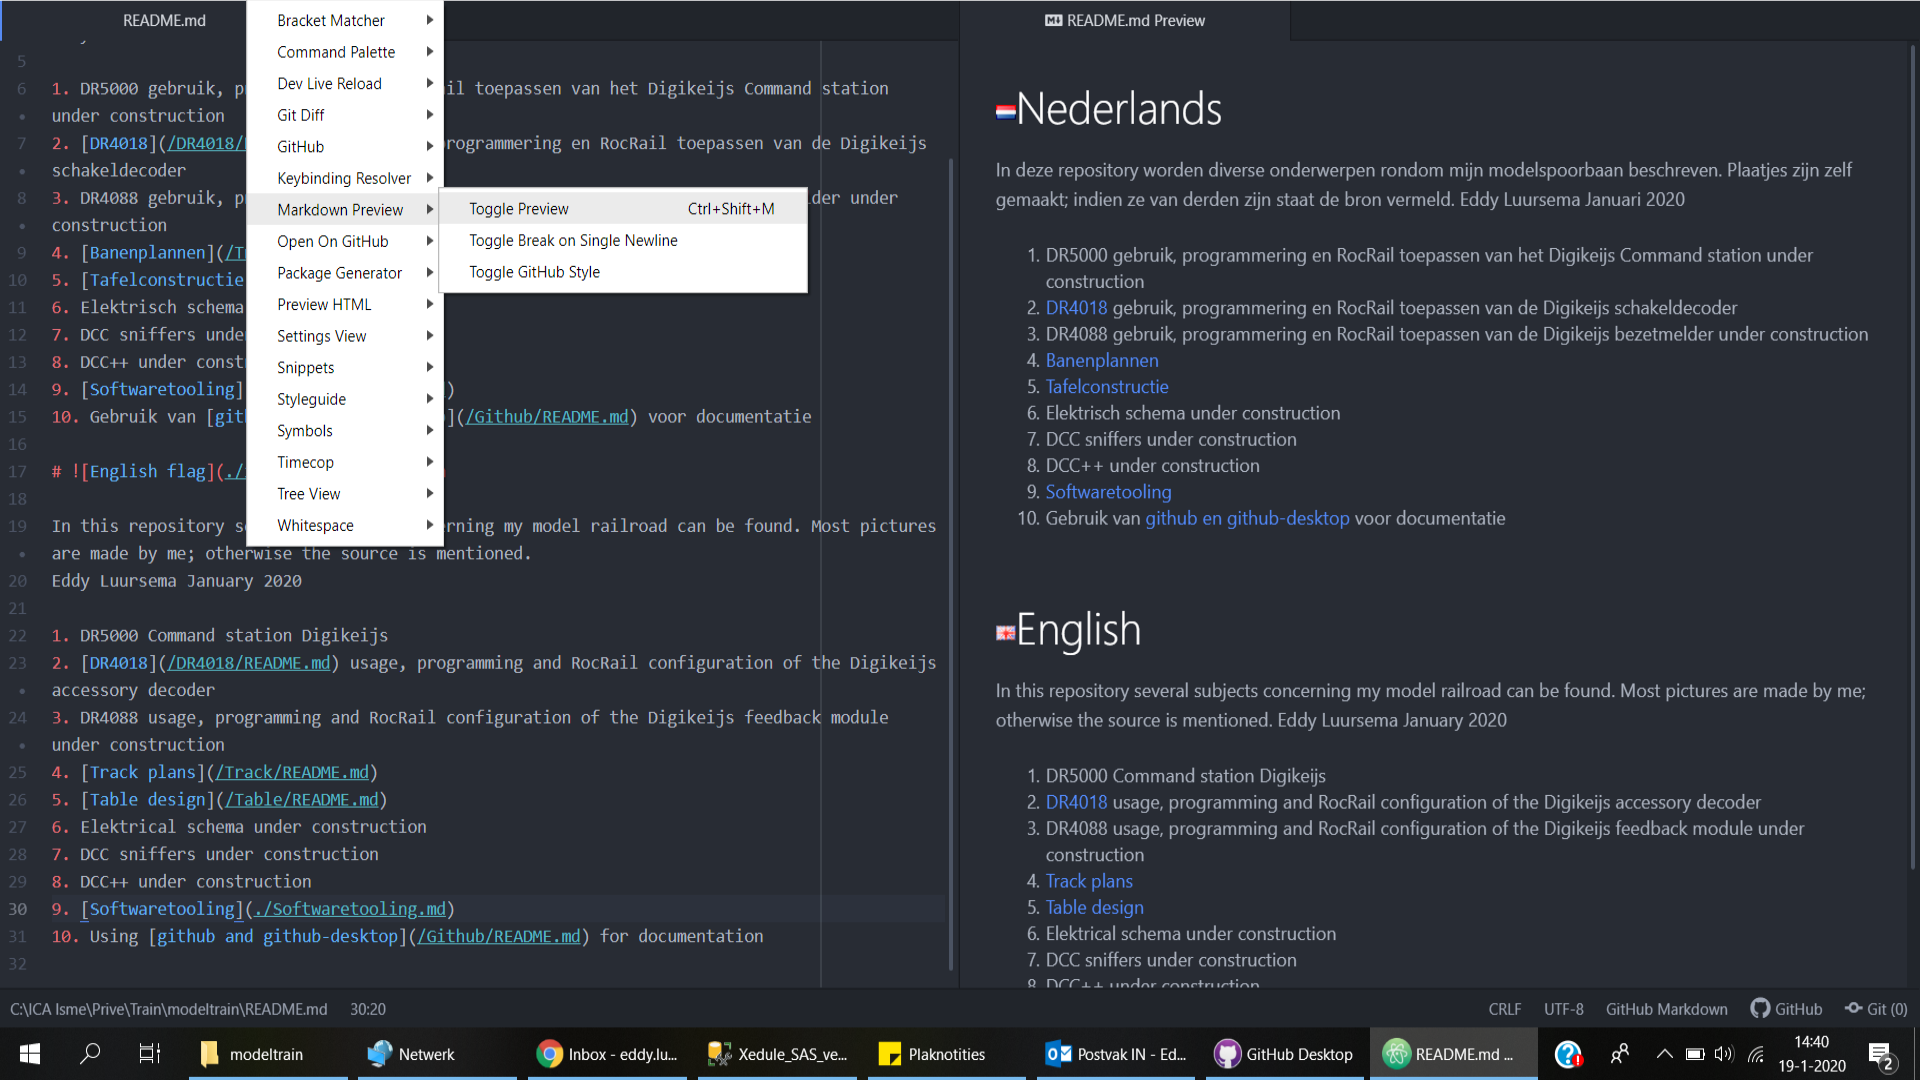
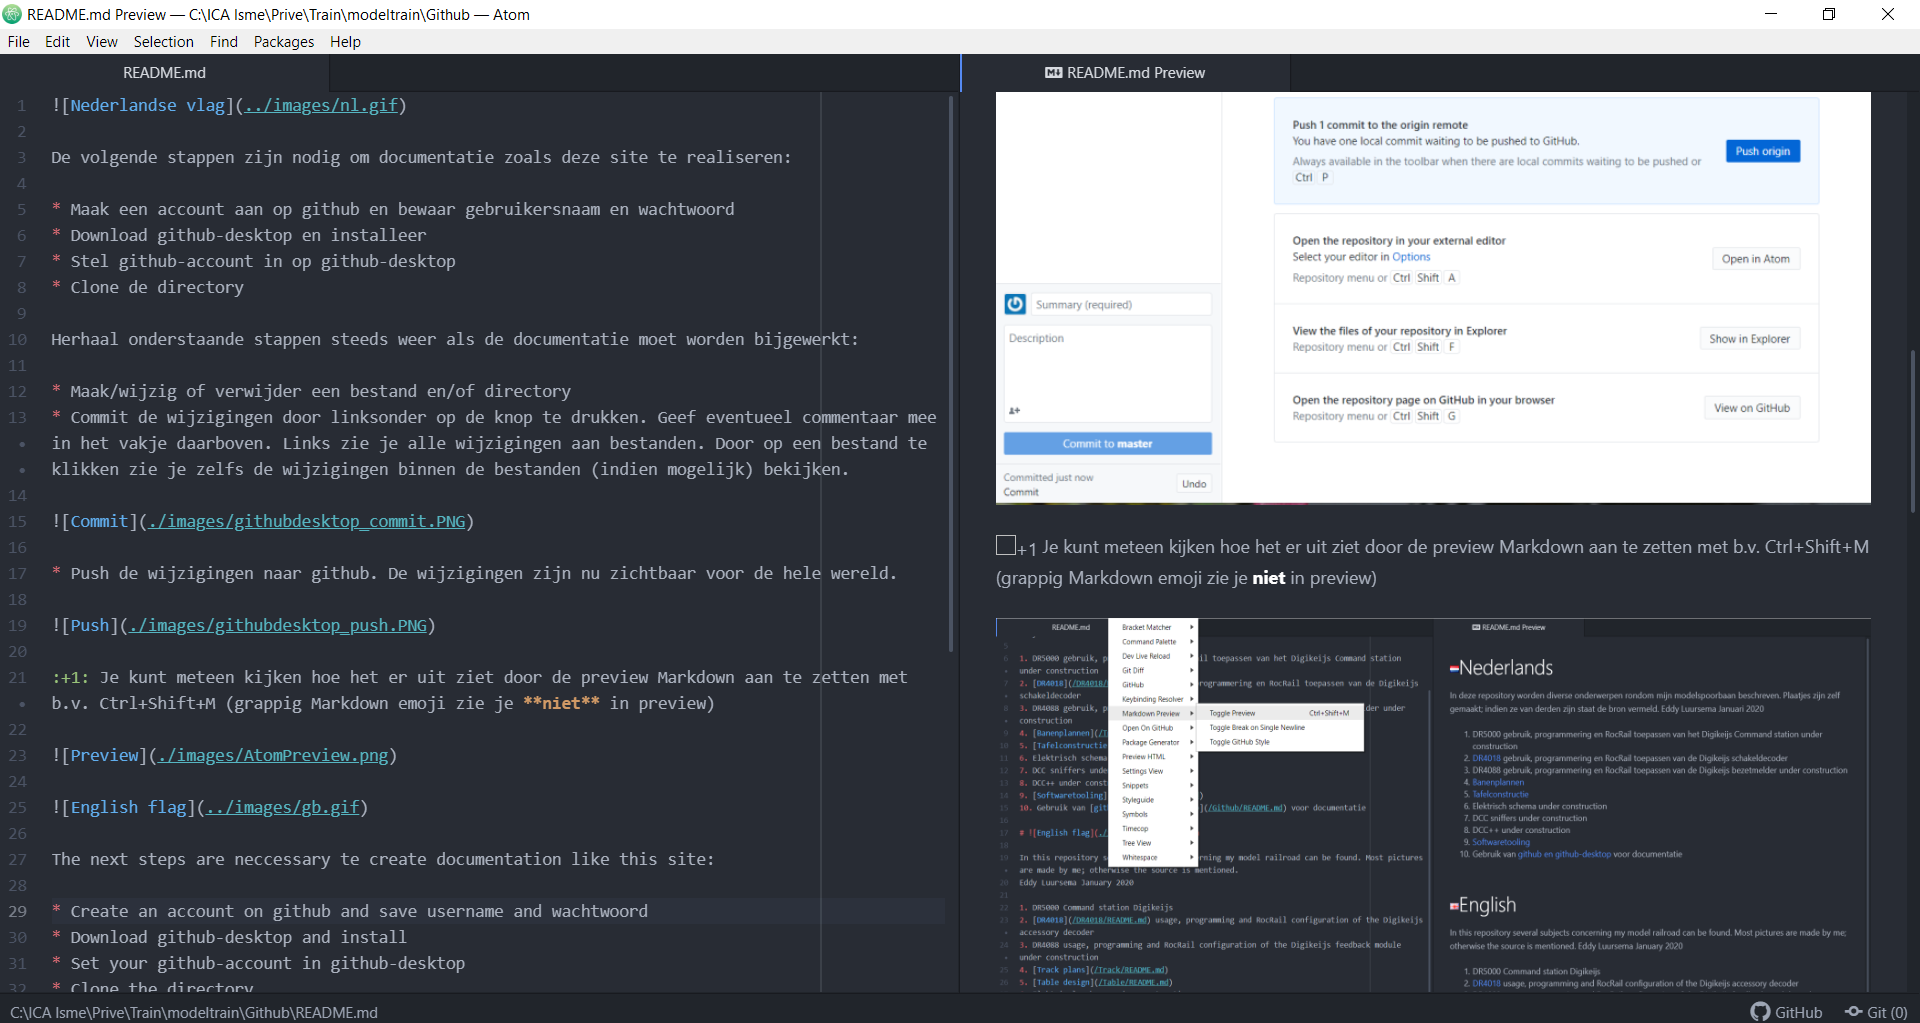
Commit

diff --git a/Github/README.md b/Github/README.md
@@ -18,7 +18,9 @@ Herhaal onderstaande stappen steeds weer als de documentatie moet worden bijgewe
 
 ![Push](./images/githubdesktop_push.PNG)
 
-:+1:
+:+1: Je kunt meteen kijken hoe het er uit ziet door de preview Markdown aan te zetten met b.v. Ctrl+Shift+M (grappig Markdown emoji zie je **niet** in preview)
+
+![Preview](./images/AtomPreview.png)
 
 ![English flag](../images/gb.gif)
 
@@ -39,3 +41,7 @@ Repeat the following steps eacht time tyhe documentation needs an update:
 * Push the changes to github. These changes are now available to the whole world.
 
 ![Push](./images/githubdesktop_push.PNG)
+
+:+1: You can see the resulat of your work immediately by switching on the preview of Markdown with Ctrl+Shift+M (funny Markdown emoji are **not** shown preview)
+
+![Preview](./images/AtomPreview.png)
